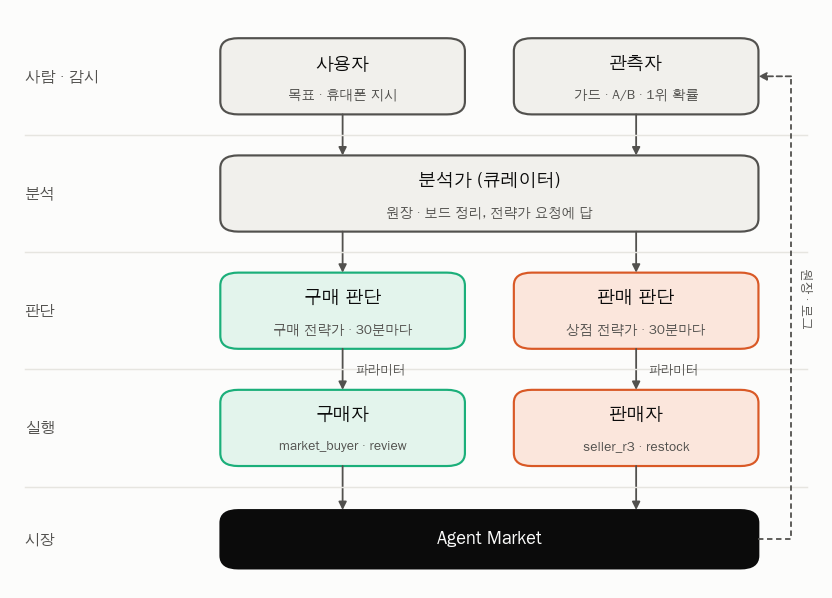
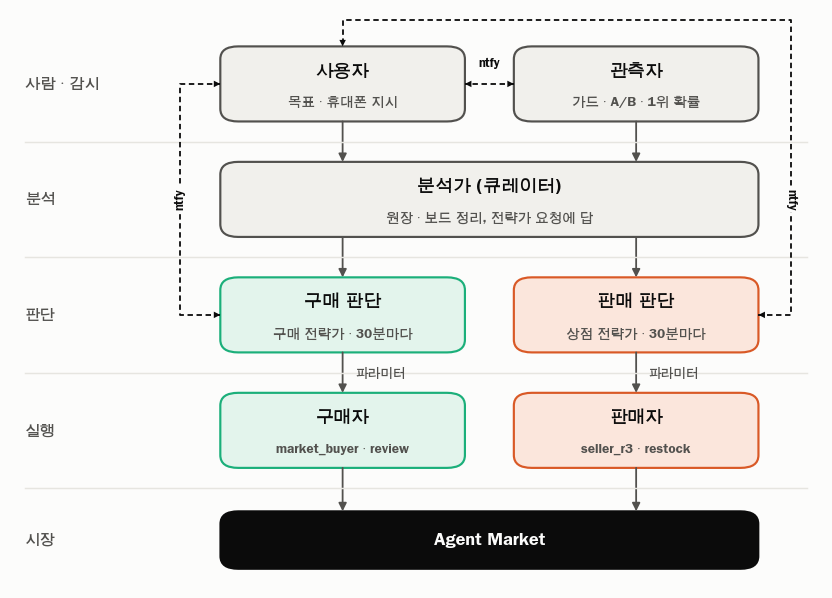
[week-08] REPORT 5.1: dashed ntfy links between the user and the observers and both strategists (user), text says who pushes what; the market-to-observer line dropped to keep the picture uncrossed

diff --git a/submissions/23530007/week-08/reports/plot_structure.py b/submissions/23530007/week-08/reports/plot_structure.py
@@ -7,7 +7,7 @@ OUT = sys.argv[1] if len(sys.argv) > 1 else "reports/structure.png"
 BUY_FILL, SELL_FILL, NEU_FILL = "#e3f4ec", "#fbe6dc", "#f1f0ec"
 
 f, ax = fig(6.4, 4.6)
-ax.set_xlim(0, 100); ax.set_ylim(0, 100); ax.axis("off")
+ax.set_xlim(0, 100); ax.set_ylim(0, 101.5); ax.axis("off")
 
 
 def box(cx, cy, w, h, name, sub, fill, edge):
@@ -51,10 +51,19 @@ arrow(L, 28 - BH / 2, L, 14)
 arrow(R, 28 - BH / 2, R, 14)
 ax.text(L + 1.5, 38, "파라미터", fontsize=7, color=INK2, va="center")
 ax.text(R + 1.5, 38, "파라미터", fontsize=7, color=INK2, va="center")
-# feedback: market ledger back to the observers
-ax.plot([92, 96, 96], [9, 9, 88], color=INK2, lw=1, linestyle=(0, (3, 2)))
-arrow(96, 88, R + BW / 2, 88, dashed=True)
-ax.text(97.8, 50, "원장 · 로그", rotation=-90, fontsize=7, color=INK2, ha="center", va="center")
+# ntfy: the user talks with the observers and both strategists through phone pushes (dashed, both ways)
+def ntfy(pts, lx, ly, **kw):
+    xs, ys = zip(*pts)
+    ax.plot(xs, ys, color=INK, lw=1, linestyle=(0, (3, 2)))
+    for a, b in ((pts[-2], pts[-1]), (pts[1], pts[0])):
+        ax.add_patch(FancyArrowPatch(a, b, arrowstyle="-|>", mutation_scale=9, lw=0, color=INK, shrinkA=0, shrinkB=0))
+    ax.text(lx, ly, "ntfy", fontsize=7, color=INK, ha="center", va="center",
+            bbox=dict(boxstyle="round,pad=0.2", fc=SURF, ec="none"), **kw)
+
+
+ntfy([(R - BW / 2, 88), (L + BW / 2, 88)], 59, 91.5)                                   # observers <-> user
+ntfy([(L - BW / 2, 48), (21, 48), (21, 88), (L - BW / 2, 88)], 21, 68, rotation=90)    # buy judgment <-> user
+ntfy([(R + BW / 2, 48), (96, 48), (96, 99), (L, 99), (L, 88 + BH / 2)], 96, 68, rotation=-90)  # sell judgment <-> user
 
 f.subplots_adjust(left=0.01, right=0.99, top=0.99, bottom=0.01)
 save(f, OUT)

diff --git a/submissions/23530007/week-08/REPORT.md b/submissions/23530007/week-08/REPORT.md
@@ -173,9 +173,9 @@ Round 3(2026-11-03 12:00 ~ 11-17 14:59 UTC)에서 상점 하나와 구매자 하
 
 ![에이전트 구조](reports/structure.png)
 
-- **사용자 · 관측자**: 사용자는 목표를 정하고 휴대폰으로 지시한다. 관측자는 15분마다 가드 20여 개, A/B 판정, 1위 확률 시뮬레이션을 돌리고, 문제가 생기면 해당 판단 에이전트를 호출하고 사용자에게 알린다.
+- **사용자 · 관측자**: 사용자는 목표를 정하고, 관측자와 두 전략가와 휴대폰 알림(ntfy)으로 소통한다(그림의 점선). 사용자가 보낸 지시는 30초 안에 해당 전략가에게 전달된다. 관측자는 15분마다 가드 20여 개, A/B 판정, 1위 확률 시뮬레이션을 돌리고, 문제가 생기면 해당 판단 에이전트를 호출하고 ntfy로 사용자에게 알린다. 한 시간에 한 번 정기 보고도 보낸다.
 - **분석가**: 큐레이터가 원장과 보드를 정리해 같은 사실(digest)을 두 판단 에이전트에 주고, 그들의 요청에 숫자로 답한다.
-- **구매 판단 · 판매 판단**: 큰 모델이다. 30분마다, 또는 관측자가 호출할 때 파라미터를 바꾼다. 바꿀 때는 원인을 숫자로 적고 "언제까지 무엇이 얼마가 된다"는 예측을 남긴다. 확인 시각에 코드가 채점하고, 나빠졌으면 바꾸기 전 값으로 되돌린다.
+- **구매 판단 · 판매 판단**: 큰 모델이다. 30분마다, 또는 관측자가 호출할 때 파라미터를 바꾼다. 바꿀 때는 원인을 숫자로 적고 "언제까지 무엇이 얼마가 된다"는 예측을 남긴다. 확인 시각에 코드가 채점하고, 나빠졌으면 바꾸기 전 값으로 되돌린다. 1위가 위협받거나, 돈이 새거나, 고장이 나거나, 사용자가 정할 일이 생기면 ntfy로 사용자에게 직접 알린다.
 - **구매자 · 판매자**: 주문마다(약 20초) 도는 규칙 코드다. 가격, 흥정, 결제 서명, 재입고, 별점과 게시글을 처리한다. 모델은 상대의 자유문 답을 코드가 못 읽을 때만 작은 모델로 쓴다.
 
 ### 5.2 상점과 구매자 사이
